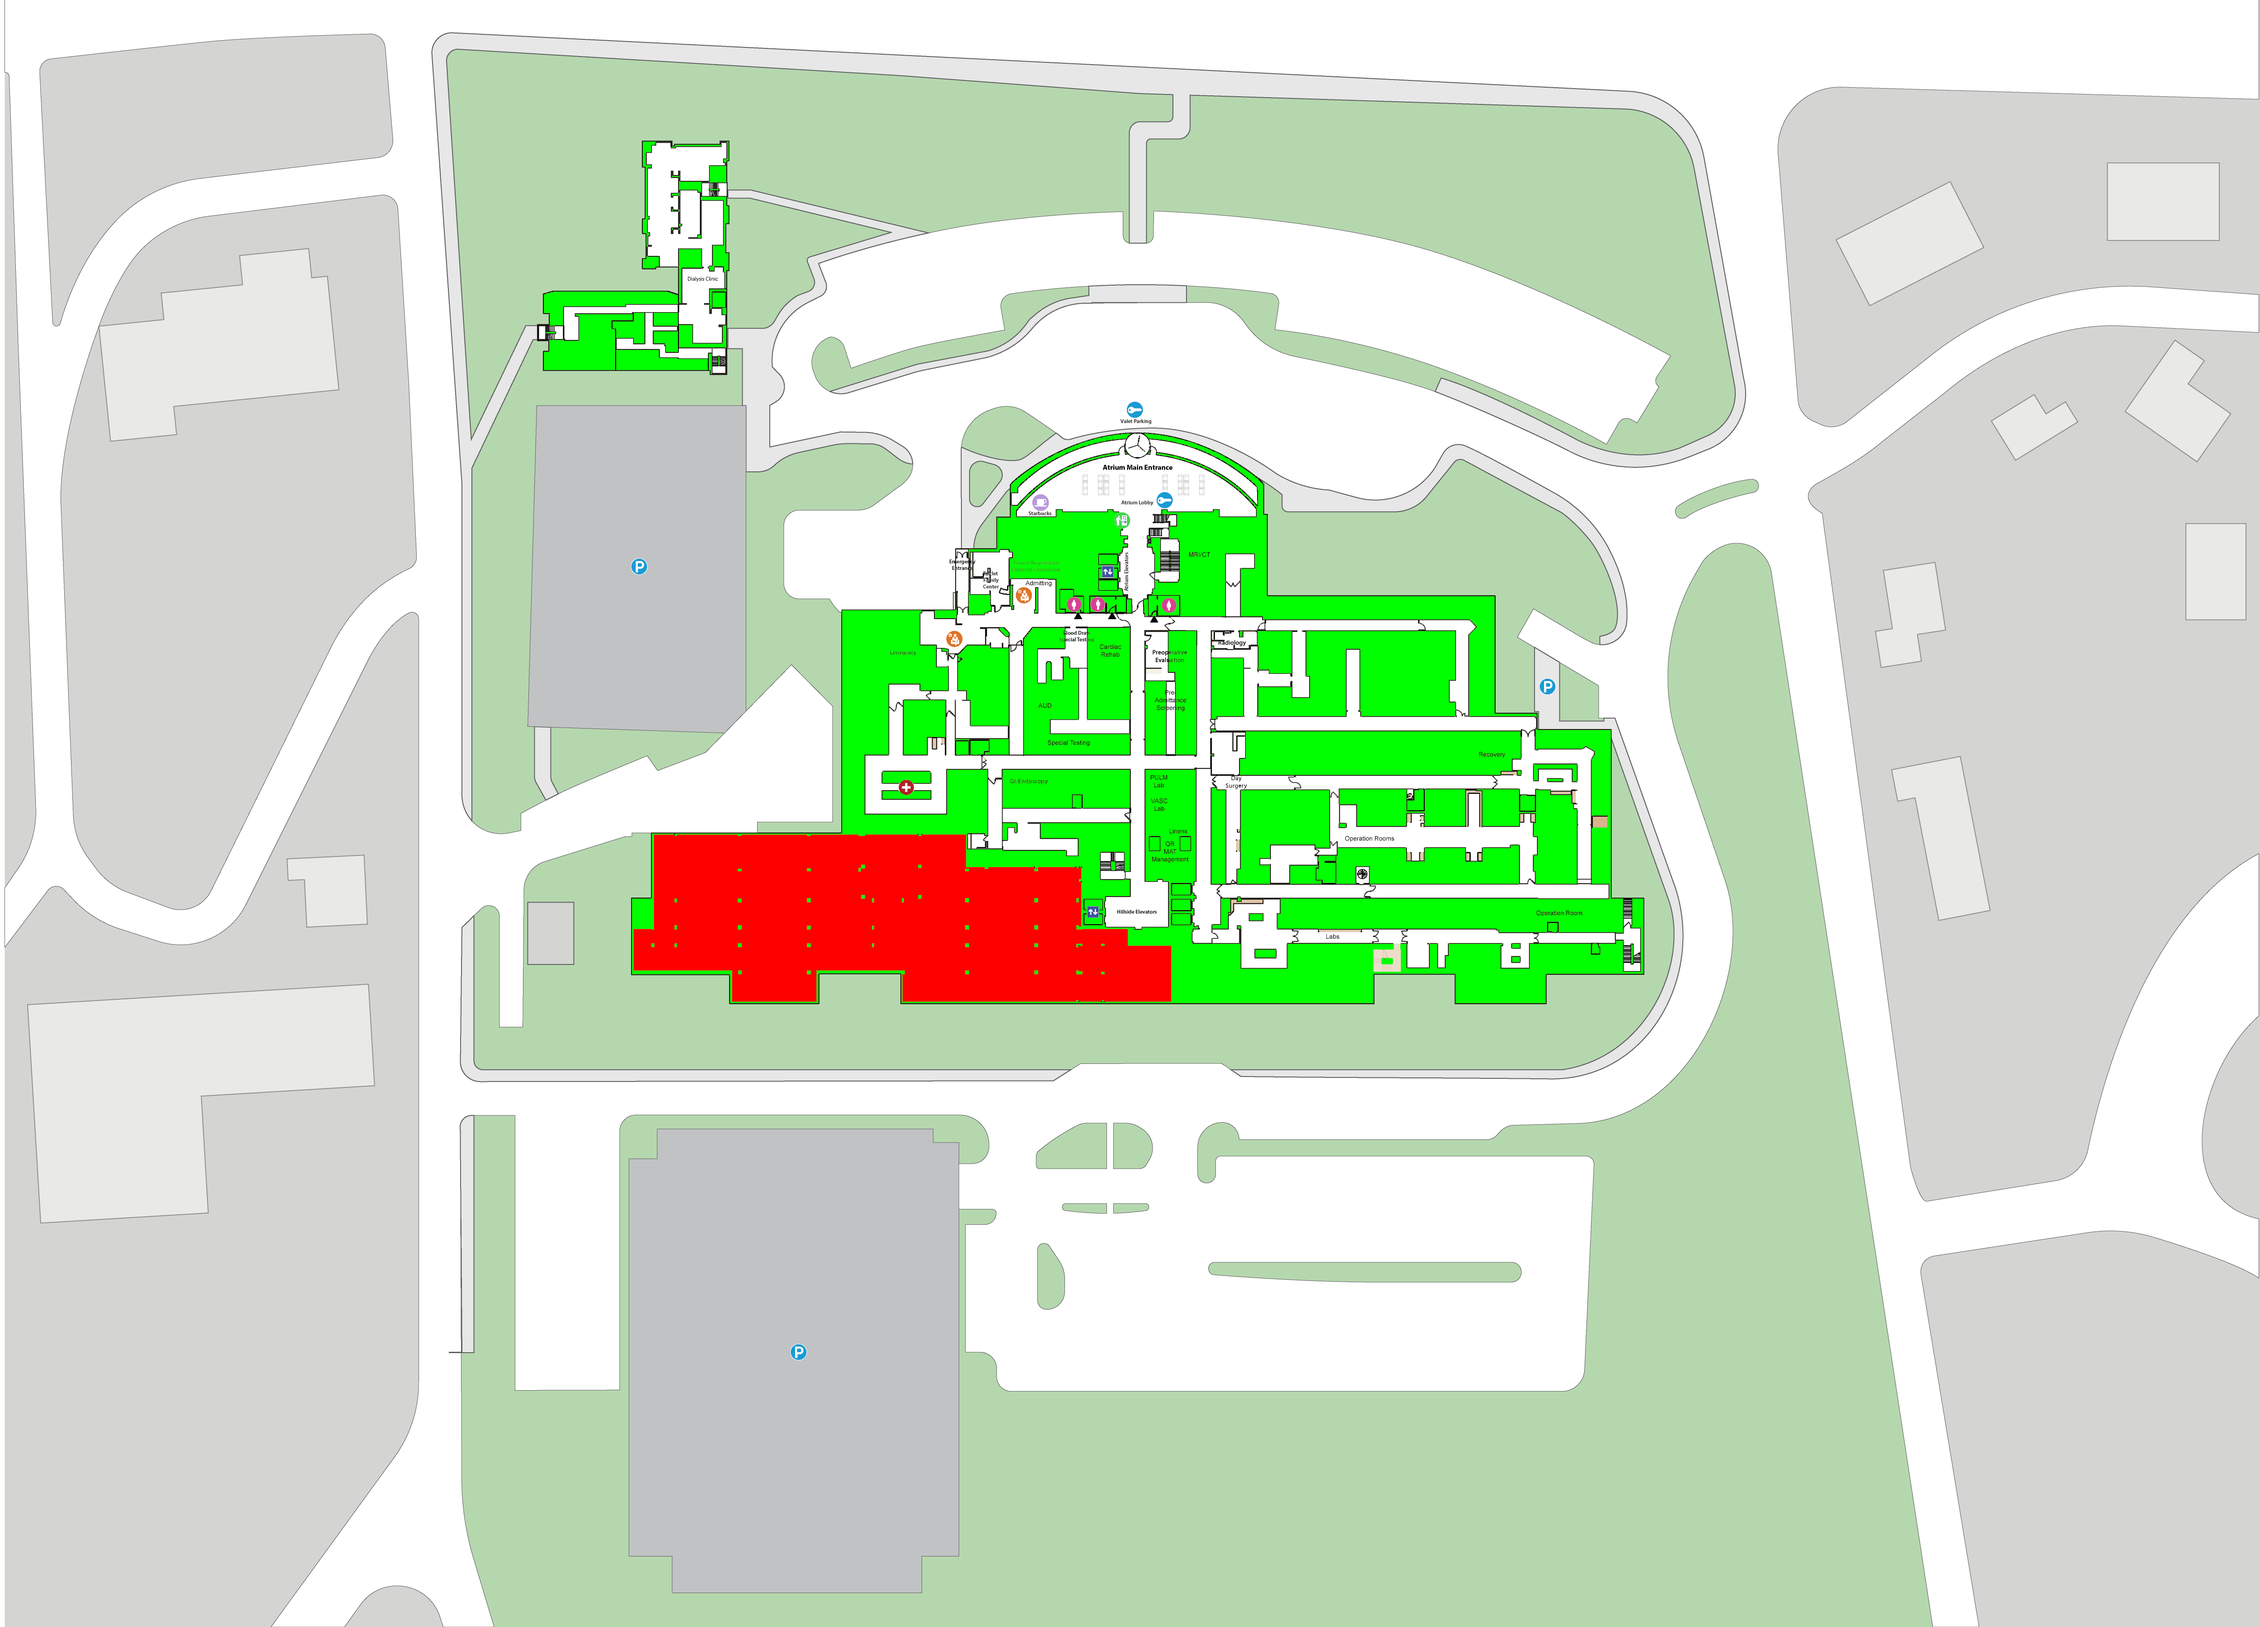
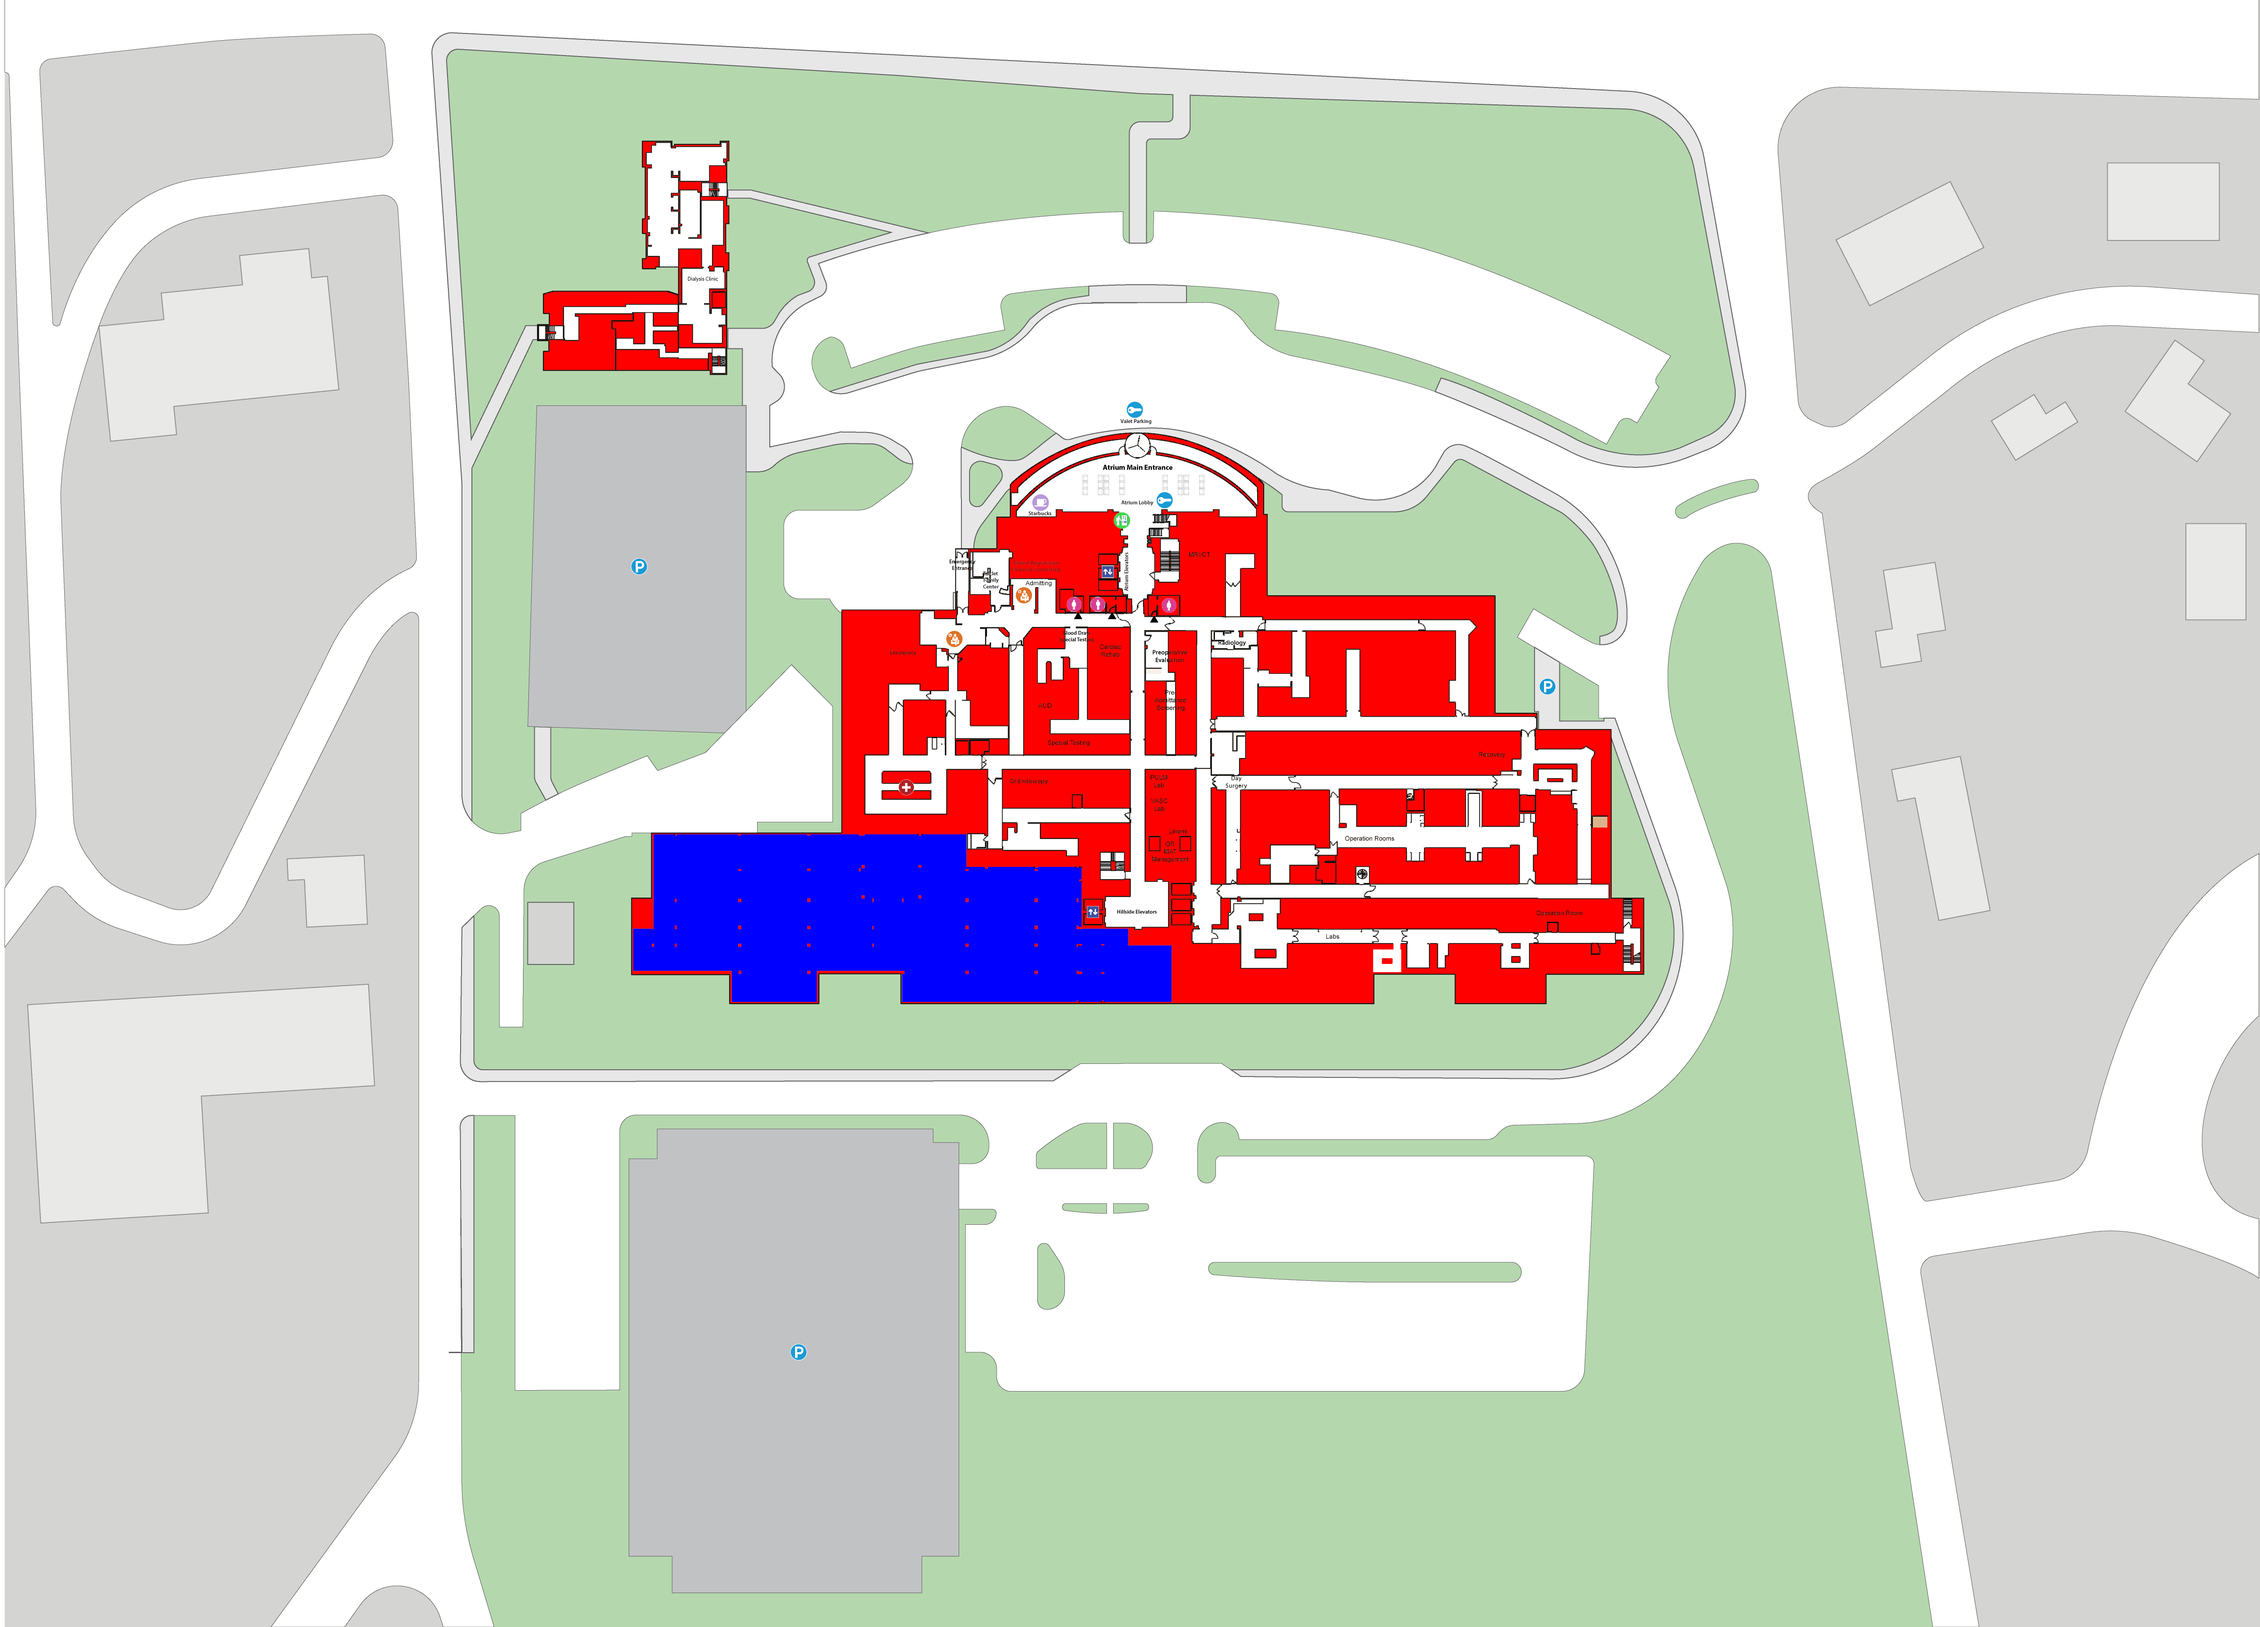
can change two colors of first floor

diff --git a/src/main/java/edu/wpi/cs3733/d20/teamA/map/MapCanvas.java b/src/main/java/edu/wpi/cs3733/d20/teamA/map/MapCanvas.java
@@ -87,7 +87,7 @@ public class MapCanvas extends Canvas {
       floorImages[i] = images.get(i);
     }
 
-    setColoredFloorImages();
+    setColoredFloorImages(Color.rgb(249, 194, 44), Color.rgb(255, 224, 140));
 
     viewSpace = new BoundingBox(0, 0, 100, 100);
     setManaged(false);
@@ -325,7 +325,7 @@ public class MapCanvas extends Canvas {
             imgEnd.getY() - imgStart.getY());
   }
 
-  private void setColoredFloorImages() {
+  private void setColoredFloorImages(Color dark, Color light) {
     coloredFloorImages = new WritableImage[maxFloor];
     for (int i = 0; i < this.floorImages.length; i++) {
       Image image = floorImages[i];
@@ -336,8 +336,10 @@ public class MapCanvas extends Canvas {
       for (int readY = 0; readY < image.getHeight(); readY++) {
         for (int readX = 0; readX < image.getWidth(); readX++) {
           Color color = pixelReader.getColor(readX, readY);
-          if (color.equals(Color.RED)) {
-            color = Color.BLUE;
+          if (color.equals(Color.BLUE)) {
+            color = dark;
+          } else if (color.equals(Color.RED)) {
+            color = light;
           }
           pixelWriter.setColor(readX, readY, color);
         }

diff --git a/src/main/java/edu/wpi/cs3733/d20/teamA/controllers/service/request/GiftRequestController.java b/src/main/java/edu/wpi/cs3733/d20/teamA/controllers/service/request/GiftRequestController.java
@@ -67,5 +67,4 @@ public class GiftRequestController extends AbstractController {
       }
     }
   }
-  
 }
